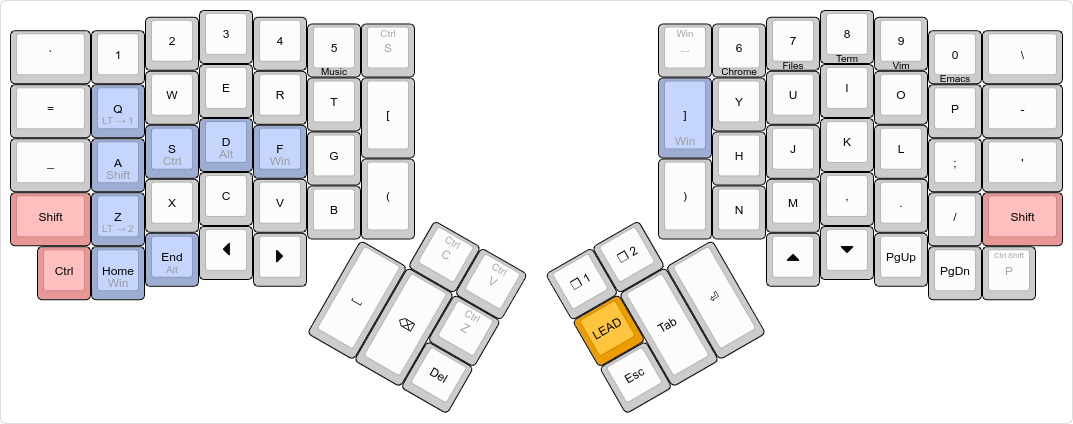
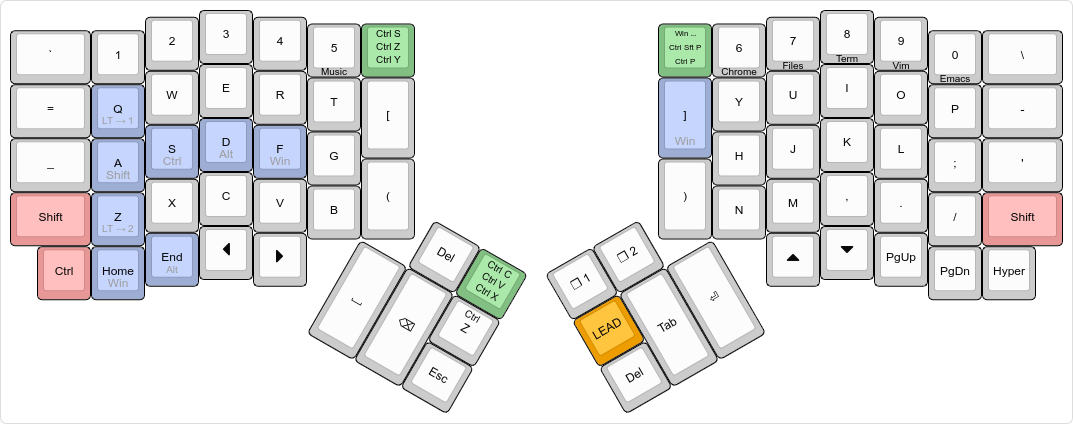
Updated readme.

diff --git a/keymap.c b/keymap.c
@@ -50,20 +50,20 @@ const uint16_t PROGMEM keymaps[][MATRIX_ROWS][MATRIX_COLS] = {
       OSM(MOD_LSFT), LT(2, KC_Z), KC_X, KC_C, KC_V, KC_B, KC_LPRN,
       OSM(MOD_LCTL), GUI_T(KC_HOME), ALT_T(KC_END), KC_LEFT, KC_RIGHT,
 
-      TD(TD_COPY_PASTE_CUT), LCTL(KC_V),
+      KC_DELETE, TD(TD_COPY_PASTE_CUT),
       LCTL(KC_Z),
-      KC_SPACE, KC_BSPACE, KC_DELETE,
+      KC_SPACE, KC_BSPACE, KC_ESC,
 
       // right hand
       TD(TD_APP_LAUNCHER_CMD_PALETTE), KC_6, KC_7, KC_8, KC_9, KC_0, KC_BSLASH,
       GUI_T(KC_RBRACKET), KC_Y, KC_U, KC_I, KC_O, KC_P, KC_MINUS,
       KC_H, KC_J, KC_K, KC_L, KC_SCOLON, KC_QUOTE,
       KC_RPRN, KC_N, KC_M, KC_COMMA, KC_DOT, KC_SLASH, OSM(MOD_LSFT),
-      KC_UP, KC_DOWN, KC_PGUP, KC_PGDOWN, LCTL(LSFT(KC_P)),
+      KC_UP, KC_DOWN, KC_PGUP, KC_PGDOWN, KC_HYPR,
 
       TG(1), TG(2),
       KC_LEAD,
-      KC_ESCAPE, KC_TAB, KC_ENTER
+      KC_DEL, KC_TAB, KC_ENTER
     ),
 
     [NUMPAD] = LAYOUT_ergodox(

diff --git a/README.md b/README.md
@@ -9,12 +9,13 @@ Some of the things in the layout only work under Linux.
 
 # Layouts
 
-## Base Layer
+## Base
 
 [![Base layer](./images/base.png)](http://www.keyboard-layout-editor.com/#/gists/121345505ed2f8dfb2f0733407c08076)
 
 -   The red `Shift` and `Ctrl` modifiers are one-shot. When tapped, they are considered active for the next key press only. When double tapped, they toggle on, until a third, single tap sometime later. When held, they act as expected.
 -   The blue `Shift`, `Ctrl`, `Alt` and `Win` modifiers are mod-tap keys. When tapped, they perform as expected. When held, they function as the respective modifiers.
+-   The green keys are tap dance keys. Tap once for the top command, twice for the second command and thrice for the third command.
 -   The `Esc` key also doubles as a one-shot cancel key: if tapped while any of the one-shot modifiers are in-flight (as in, single-tapped, and not expired yet), it cancels all one-shot modifiers. Otherwise it sends the usual keycode.
 -   The number keys with lower legends run the given program in conjunction with `Win`. This is done via a [custom application switcher / launcher][wintool]. E.g. `Win 6` either launches chrome or alt-tabs between currently running chrome instances
 -   The **Lead** key allows me to type in a sequence of keys, and trigger some actions:
